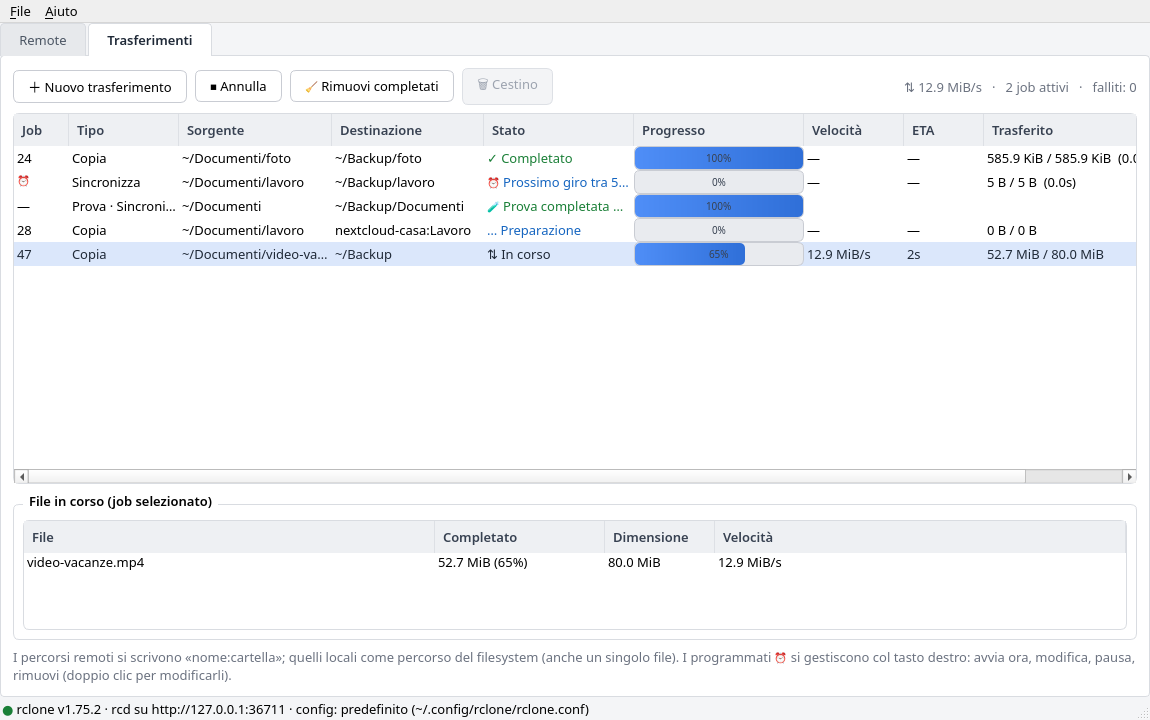
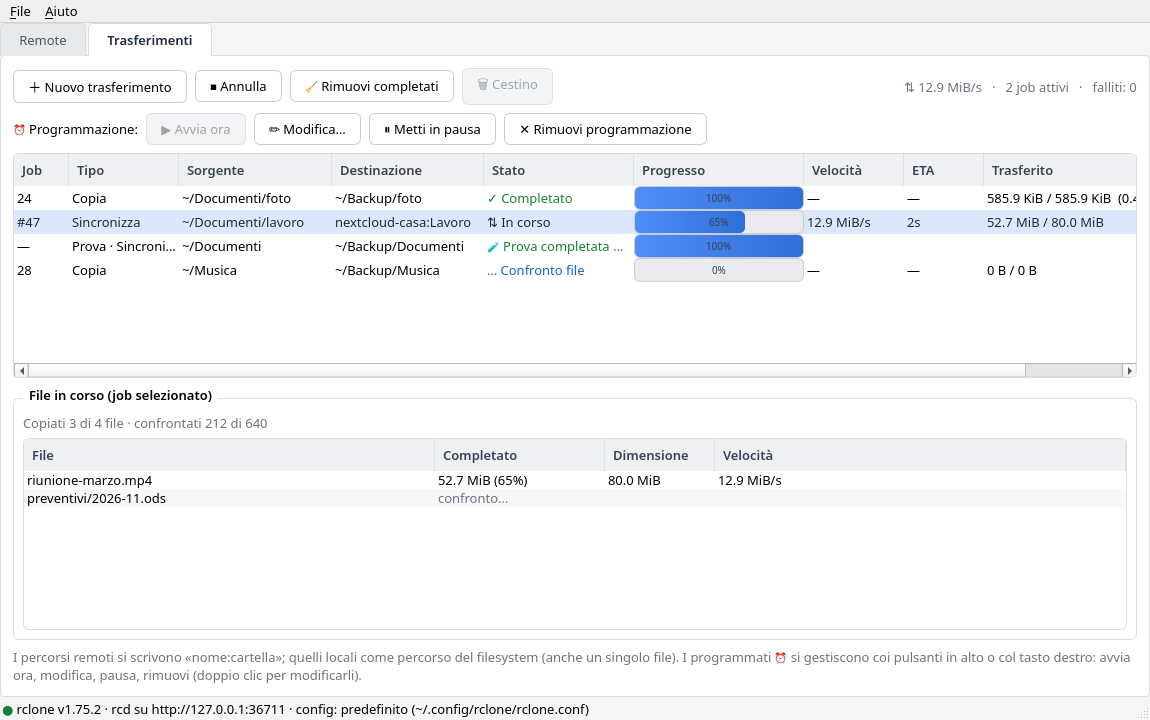
Trasferimenti: README, schermate e pulsante «Avvia ora» col demone giù
- README (inglese e italiano): le azioni sulle programmazioni ⏰ si fanno
  anche dai pulsanti «⏰ Programmazione», il pannello «File in corso»
  mostra anche i file in confronto
- schermate della scheda Trasferimenti rigenerate con la nuova riga di
  pulsanti e il riepilogo dei file
- il tick delle programmazioni aggiorna i pulsanti: con il rcd
  irraggiungibile non arrivano snapshot e «Avvia ora» restava spento
- test per il caso del demone giù

diff --git a/tests/test_transfers_tab.py b/tests/test_transfers_tab.py
@@ -221,3 +221,27 @@ def test_schedule_buttons_in_the_bar(qapp, dialogs):
     assert dialogs == ["Rimuovere la programmazione?"]
     assert def_id not in tab._recurrent and tab.tree.topLevelItemCount() == 0
     assert not any(b.isEnabled() for b in buttons)
+
+
+def test_run_now_button_comes_back_when_the_daemon_is_down(qapp):
+    """Con il rcd giù non arrivano snapshot: dopo un «Avvia ora» fallito il
+    pulsante deve tornare attivo dal tick stesso."""
+    from clonaut.api import ApiError
+    from clonaut.ui.transfers_tab import TransfersTab
+
+    class _DeadApi(_OfflineApi):
+        def start_transfer(self, *_a, **_k):
+            raise ApiError("rclone rcd non risponde")
+
+    ctx = _Ctx()
+    ctx.api = _DeadApi()
+    tab = TransfersTab(ctx)
+    tab._rec_timer.stop()
+    def_id = tab.add_recurring("copy", "/a", "/b", [], 3600)
+    tab._recurrent[def_id]["last_start"] = 10**12   # niente giro automatico
+    tab.tree.setCurrentItem(tab._rec_item[def_id])
+    tab.btn_run_now.click()
+    assert not tab.btn_run_now.isEnabled()
+    tab._on_rec_tick()
+    assert tab._recurrent[def_id]["last_status"] == "err"
+    assert tab.btn_run_now.isEnabled()

diff --git a/clonaut/ui/transfers_tab.py b/clonaut/ui/transfers_tab.py
@@ -627,6 +627,8 @@ class TransfersTab(QtWidgets.QWidget):
                 item.setText(0, f"#{jid}")
                 item.setData(0, _ROLE_JID, jid)
             self._save_recurring()
+        # senza snapshot (rcd irraggiungibile) nessun altro riaccende i pulsanti
+        self._update_rec_actions()
 
     def _update_recurring(self, snap: dict) -> None:
         for jid, def_id in list(self._rec_of_jid.items()):

diff --git a/README.it.md b/README.it.md
@@ -20,7 +20,8 @@ su entrambe.
 - **Remote** — elenco con tipo e riepilogo, creazione con form dinamico generato dai
   ~58 provider noti (`config/providers`), eliminazione, dettagli della config.
 - **Trasferimenti** — coda job con barre di avanzamento, velocità, ETA, byte
-  trasferiti, annullamento, pannello «File in corso» del job selezionato.
+  trasferiti, annullamento, pannello «File in corso» del job selezionato (file
+  in copia o in confronto, con i contatori di copiati e confrontati).
   Modalità **Copia / Sposta / Sincronizza**, tra remoti, locali o misti.
 - **Esclusioni** — pattern rclone per job (es. journal dei client di sync).
 - **Cestino di sicurezza** — i file che verrebbero **eliminati o sovrascritti**
@@ -40,7 +41,8 @@ su entrambe.
 - **Ripetizione automatica ⏰** — i trasferimenti si possono ripetere ogni N
   minuti/ore/giorni: la programmazione sopravvive alla chiusura dell'app
   (`~/.config/clonaut/recurring.json`), con modifica (doppio clic sulla
-  riga), pausa/riattivazione e "avvia ora" dal tasto destro. *I giri partono solo con l'app aperta: se era
+  riga), pausa/riattivazione e "avvia ora" dai pulsanti «⏰ Programmazione»
+  sopra la coda o dal tasto destro. *I giri partono solo con l'app aperta: se era
   chiusa, alla riapertura parte subito un giro se l'intervallo è scaduto.*
 
 ![Remote](docs/screenshot-remote.png)
@@ -63,7 +65,8 @@ specchio:
    vuoto* → guarda l'esito in coda («Prova»).
 2. **Programmazione** — stessa configurazione senza la prova, con *Ripeti
    automaticamente ogni 6 ore* (o la frequenza che preferisci) → la riga ⏰
-   si occupa di tutto; tasto destro per pausa o rimozione.
+   si occupa di tutto; pausa o rimozione dai pulsanti «⏰ Programmazione» o
+   col tasto destro.
 
 I pattern suggeriti saltano i journal interni del client Nextcloud (`.sync_*.db`,
 `.nextcloudsync.log`) e i file di blocco che cambiano di continuo. Con il
@@ -263,8 +266,9 @@ CLONAUT_RC_PASS=segreta clonaut --url http://127.0.0.1:5572 --user utente
   o menu della tray) chiude davvero l'app e ferma il suo rclone rcd.
 - **Ripeti automaticamente** — spunta «Ripeti ogni N ore/minuti/giorni»: nasce una
   riga ⏰ in coda che si rilancia da sola a ogni intervallo (mai in parallelo).
-  Tasto destro sulla riga: *Avvia ora*, *Modifica…*, *Metti in pausa/Riattiva*,
-  *Rimuovi programmazione*. La modifica (anche con doppio clic sulla riga)
+  Selezionala e usa i pulsanti «⏰ Programmazione» sopra la coda, oppure il
+  tasto destro sulla riga: *Avvia ora*, *Modifica…*, *Metti in
+  pausa/Riattiva*, *Rimuovi programmazione*. La modifica (anche con doppio clic sulla riga)
   cambia percorsi, modalità, esclusioni, cestino e intervallo; un giro già in
   corso prosegue con le impostazioni precedenti e le modifiche valgono dal
   giro successivo.

diff --git a/README.md b/README.md
@@ -22,7 +22,8 @@ More languages are welcome — see [Contributing](#contributing).
   form generated from rclone's ~58 known providers (`config/providers`); delete;
   view configuration details.
 - **Transfers** — job queue with progress bars, speed, ETA, bytes transferred,
-  cancel, and a "files in progress" panel for the selected job.
+  cancel, and a "files in progress" panel for the selected job (files being
+  copied or compared, with copied/compared counters).
   **Copy / Move / Sync** between remotes, local paths, or a mix of both.
 - **Exclusions** — per-job rclone patterns (e.g. sync-client journals).
 - **Safety trash** — files that would be **deleted or overwritten** at the
@@ -41,9 +42,9 @@ More languages are welcome — see [Contributing](#contributing).
   files/bytes would be transferred and how many files would be deleted.
 - **Scheduled repeats ⏰** — transfers can repeat every N minutes/hours/days.
   Schedules survive restarts (`~/.config/clonaut/recurring.json`) and can be
-  edited (double-click the row), paused, resumed or started immediately from
-  the right-click menu. *Runs only
-  happen while the app is open (the tray is enough); if the interval expired
+  edited (double-click the row), paused, resumed or started immediately with
+  the «⏰ Schedule» buttons above the queue or from the right-click menu. *Runs
+  only happen while the app is open (the tray is enough); if the interval expired
   while it was closed, a run starts right away on the next launch.*
 
 ![Remotes](docs/screenshot-remotes.png)
@@ -64,7 +65,7 @@ of truth; kDrive is the mirror:
    (row marked «Dry run»).
 2. **Schedule** — same settings without the dry run, ticking *Repeat
    automatically every 6 hours* → the ⏰ row takes care of everything;
-   right-click to pause or remove it.
+   pause or remove it with the «⏰ Schedule» buttons or right-click.
 
 The suggested patterns skip the Nextcloud client's internal journals
 (`.sync_*.db`, `.nextcloudsync.log`) and lock files that change constantly.
@@ -265,7 +266,8 @@ CLONAUT_RC_PASS=secret clonaut --url http://127.0.0.1:5572 --user user
   app's rclone daemon.
 - **Repeat automatically** — tick «Repeat automatically every N
   minutes/hours/days»: a ⏰ row appears and restarts itself at every interval
-  (never in parallel). Right-click: *Run now*, *Edit…*, *Pause* / *Resume*,
+  (never in parallel). Select it and use the «⏰ Schedule» buttons above the
+  queue, or right-click: *Run now*, *Edit…*, *Pause* / *Resume*,
   *Remove schedule*.
   Editing (also by double-clicking the row) changes paths, mode, exclusions,
   trash and interval; a run already in progress keeps its old settings and the
